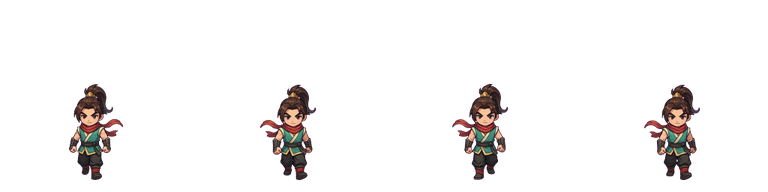
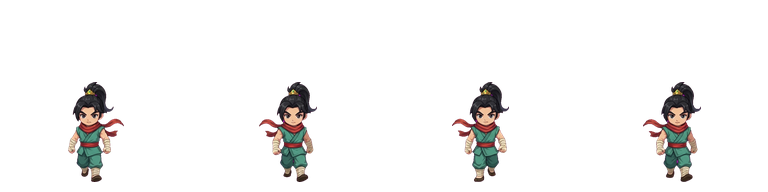
art(redraw_18): fix missing bangs on 4 fist frames and unify town hero palette

diff --git a/docs/redraw/README.md b/docs/redraw/README.md
@@ -30,7 +30,8 @@
 | `redraw_15.md` | 3 张无缝地面瓦片补画 + 精英循环修复 | 已接入（`6fb73ac`） |
 | `redraw_16.md` | Boss 立绘与精灵不一致：按精灵重画 7 张 + 刀客立绘 | 已接入（`026cbfe`） |
 | `redraw_17.md` | 全部 37 个招式图标按名称和特效重画（附 `ref17/` 对照图） | 已接入 |
-| `redraw_18.md` | 武者 sprite 逐帧检查的修正（缺刘海 4 帧 + 小镇配色统一） | **待画** |
+| `redraw_18.md` | 武者 sprite 逐帧检查的修正（缺刘海 4 帧 + 小镇配色统一） | 已接入（局内 4 帧补刘海 + 小镇三向统一配色） |
+| `redraw_19.md` | B 线其余职业/图标初审修正草稿（杨家将/剑客/4 张旧意象图标） | 草稿待复核 |
 | `redraw_later.md` | 华山五魁首、第 4~6 关（等关卡开发再画） | 后期 |
 
 > B 线走查对照图见 `docs/redraw/audit/`（由 `python3 tools/make_art_audit_sheets.py` 生成：剑客 / 刀客 / 杨家将逐帧图 + 心法/轻功/九式图标表 + 三关怪物/Boss 表）。
